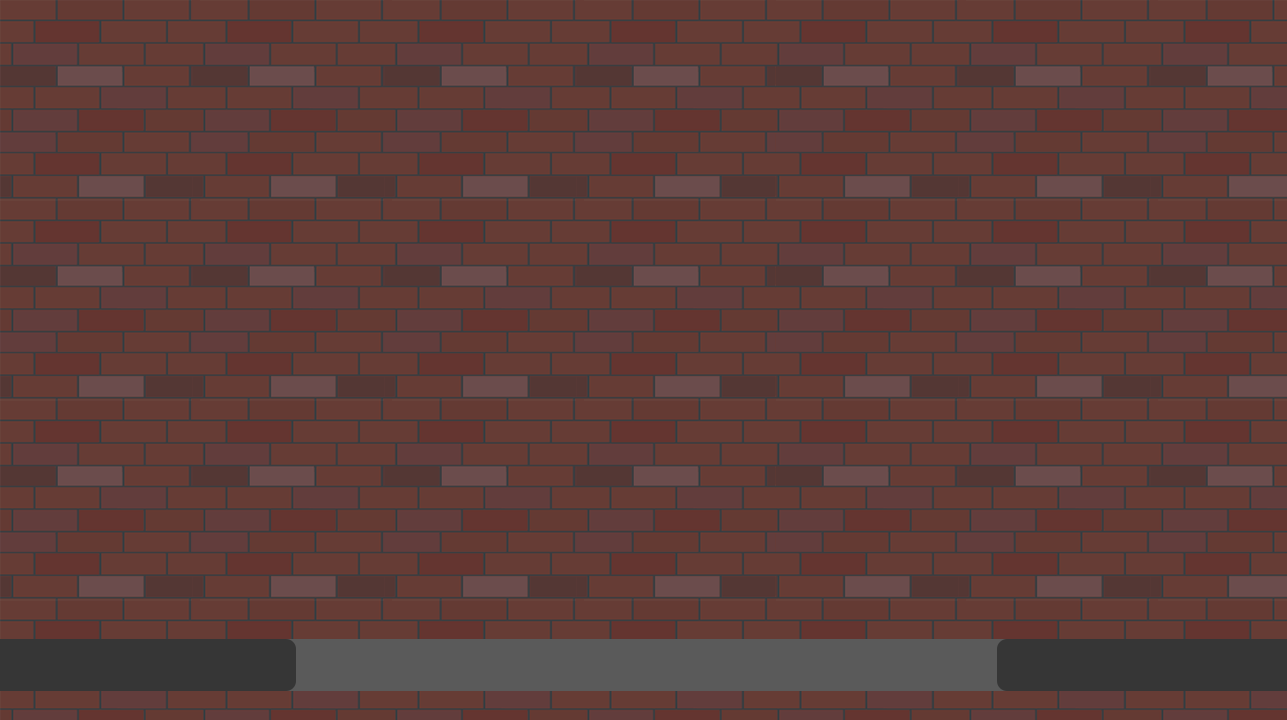
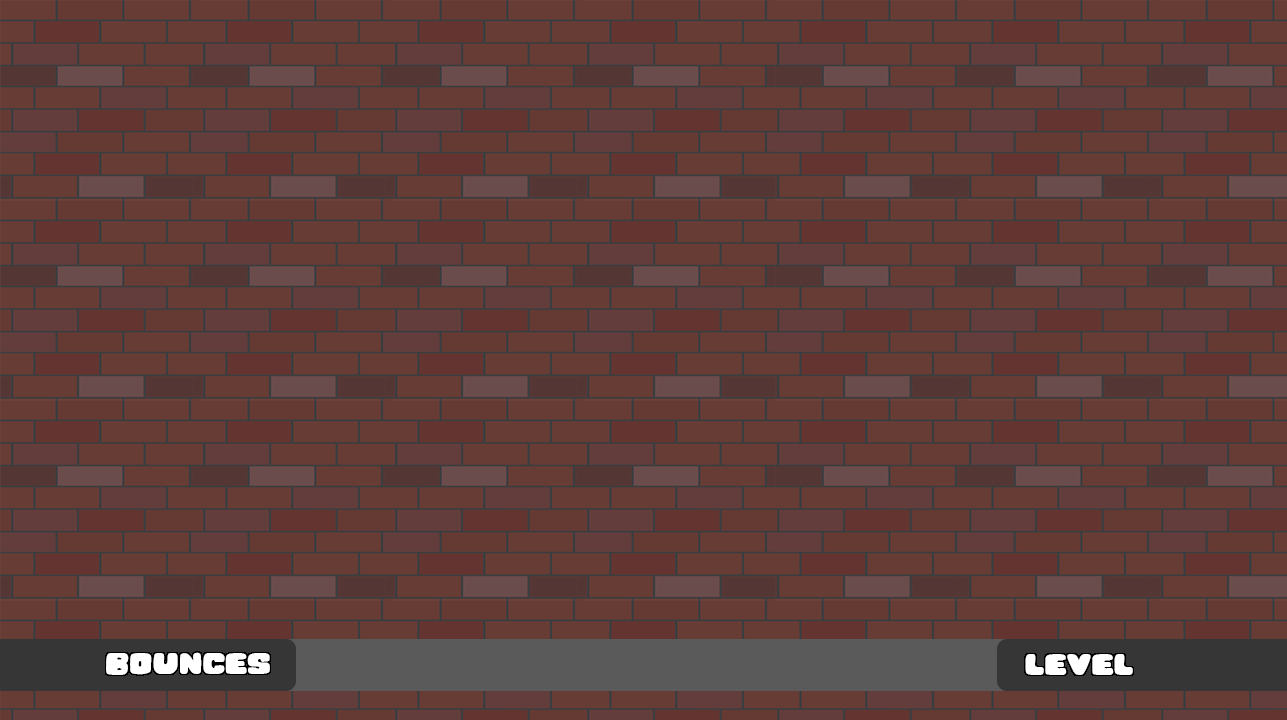
Finished HUD and added Ball texture

Changed region(s): [[0.0622, 0.8861, 0.2176, 0.9472], [0.777, 0.8861, 0.9013, 0.9472]]

diff --git a/src/game/Game.java b/src/game/Game.java
@@ -91,7 +91,6 @@ public class Game extends Canvas implements Runnable {
 			menu = new ImageIcon(getClass().getResource("/resources/Blok_Menu.png")).getImage();
 		}
 		if(state == STATE.game) {
-			hud = new ImageIcon(getClass().getResource("/resources/HUD.png")).getImage();
 			background = new ImageIcon(getClass().getResource("/resources/Bg.png")).getImage();
 			
 			one = new ImageIcon(getClass().getResource("/resources/1.png")).getImage();
@@ -119,24 +118,35 @@ public class Game extends Canvas implements Runnable {
 			handler.paintComponent(g);
 			
 			if(bounces == 1) {
-				g.drawImage(one, 210, 641, null);
+				g.drawImage(one, 32, 639, null);
 			} else if(bounces == 2) {
-				g.drawImage(two, 210, 641, null);
+				g.drawImage(two, 32, 639, null);
 			} else if(bounces == 3) {
-				g.drawImage(three, 210, 641, null);
+				g.drawImage(three, 32, 639, null);
 			} else if(bounces == 4) {
-				g.drawImage(four, 210, 641, null);
+				g.drawImage(four, 32, 639, null);
 			} else if(bounces == 5) {
-				g.drawImage(five, 210, 641, null);
+				g.drawImage(five, 32, 639, null);
 			} else if(bounces == 0) {
-				g.drawImage(zero, 210, 641, null);
+				g.drawImage(zero, 32, 639, null);
 			}
-			g.drawImage(hud, 0, 0, null);
+			if(llvl == 1) {
+				g.drawImage(one, 1200, 639, null);
+			} else if(llvl == 2) {
+				g.drawImage(two, 1200, 639, null);
+			} else if(llvl== 3) {
+				g.drawImage(three, 1200, 639, null);
+			} else if(llvl== 4) {
+				g.drawImage(four, 1200, 639, null);
+			} else if(llvl == 5) {
+				g.drawImage(five, 1200, 639, null);
+			} else if(llvl == 0) {
+				g.drawImage(zero, 1200, 639, null);
+			}
 		}
 		if (state == STATE.menu) {
 			g.drawImage(menu, 0, 0, null);
 		}
-
 		g.dispose();
 		strat.show();
 	}

diff --git a/src/game/Ball.java b/src/game/Ball.java
@@ -1,17 +1,18 @@
 package game;
 
-import java.awt.BasicStroke;
-import java.awt.Color;
 import java.awt.Graphics;
 import java.awt.Graphics2D;
-import java.awt.geom.Ellipse2D;
+import java.awt.Image;
 import java.awt.geom.Rectangle2D;
+
+import javax.swing.ImageIcon;
 
 public class Ball extends GameObject{
 	
 	public static boolean shoot = false;
 	public static boolean go = false;
 	public static boolean restart = false;
+	Image image;
 	
 	private int size = 32;
 	Handler handler;
@@ -19,6 +20,8 @@ public class Ball extends GameObject{
 	public Ball(int x, int y, ID id, Handler handler) {
 		super(x, y, id);
 		this.handler = handler;
+		
+		loadImage();
 	}
 	public void tick() {
 		collision();
@@ -74,6 +77,7 @@ public class Ball extends GameObject{
 			if(temp.getId() == id.door) {
 				if(getBoundsBottom().intersects(temp.getBounds())) {
 					Game.bounces++;
+					Game.llvl++;
 					handler.switchLvl();
 				}
 			}
@@ -82,8 +86,10 @@ public class Ball extends GameObject{
 	public void paintComponent(Graphics g) {
 		Graphics2D g2 = (Graphics2D) g;
 		
-		g2.setColor(Color.white);
-		g2.fill(new Ellipse2D.Double(x, y, 32, 32));
+		g2.drawImage(image, (int) x, (int) y, null);
+		
+//		g2.setColor(Color.white);
+//		g2.fill(new Ellipse2D.Double(x, y, 32, 32));
 //		g2.draw(new Ellipse2D.Double(x, y, 32, 32));
 
 //		g2.setStroke(new BasicStroke(1));
@@ -95,6 +101,9 @@ public class Ball extends GameObject{
 //		g2.draw(getBoundsLeft());
 //		g2.setColor(Color.white);
 //		g2.draw(getBoundsRight());
+	}
+	public void loadImage() {
+		image = new ImageIcon(getClass().getResource("/resources/ball.png")).getImage();
 	}
 	public Rectangle2D getBounds() {
 		return new Rectangle2D.Double(x + 7, y, size - 14, size / 2);

diff --git a/src/game/Handler.java b/src/game/Handler.java
@@ -40,25 +40,22 @@ public class Handler {
 		
 		switch(Game.llvl) {
 		
-		case 1:
+		case 2:
 			Game.loadLevel(Game.level2);
-			Game.llvl++;
 			Game.bounces += 3;
 			addObject(new Aim(50, 360, ID.aim));
 			addObject(new Ball(34, 357, ID.ball, this));
 			break;
 		
-		case 2:
+		case 3:
 			Game.loadLevel(Game.level3);
-			Game.llvl++;
 			Game.bounces += 2;
 			addObject(new Aim(50, 360, ID.aim));
 			addObject(new Ball(34, 357, ID.ball, this));
 			break;
 			
-		case 3:
+		case 4:
 			Game.loadLevel(Game.level4);
-			Game.llvl++;
 			Game.bounces += 3;
 			addObject(new Aim(50, 360, ID.aim));
 			addObject(new Ball(34, 357, ID.ball, this));

diff --git a/src/game/Runner.java b/src/game/Runner.java
@@ -6,13 +6,4 @@ public class Runner {
 		
 		new Game();
 	}
-	/*
-	 * Todo
-	 * 
-	 * Finish drawing the hud
-	 * 
-	 * Draw textures for walls/doors
-	 * 
-	 * More levelsiiii
-	 */
 }
